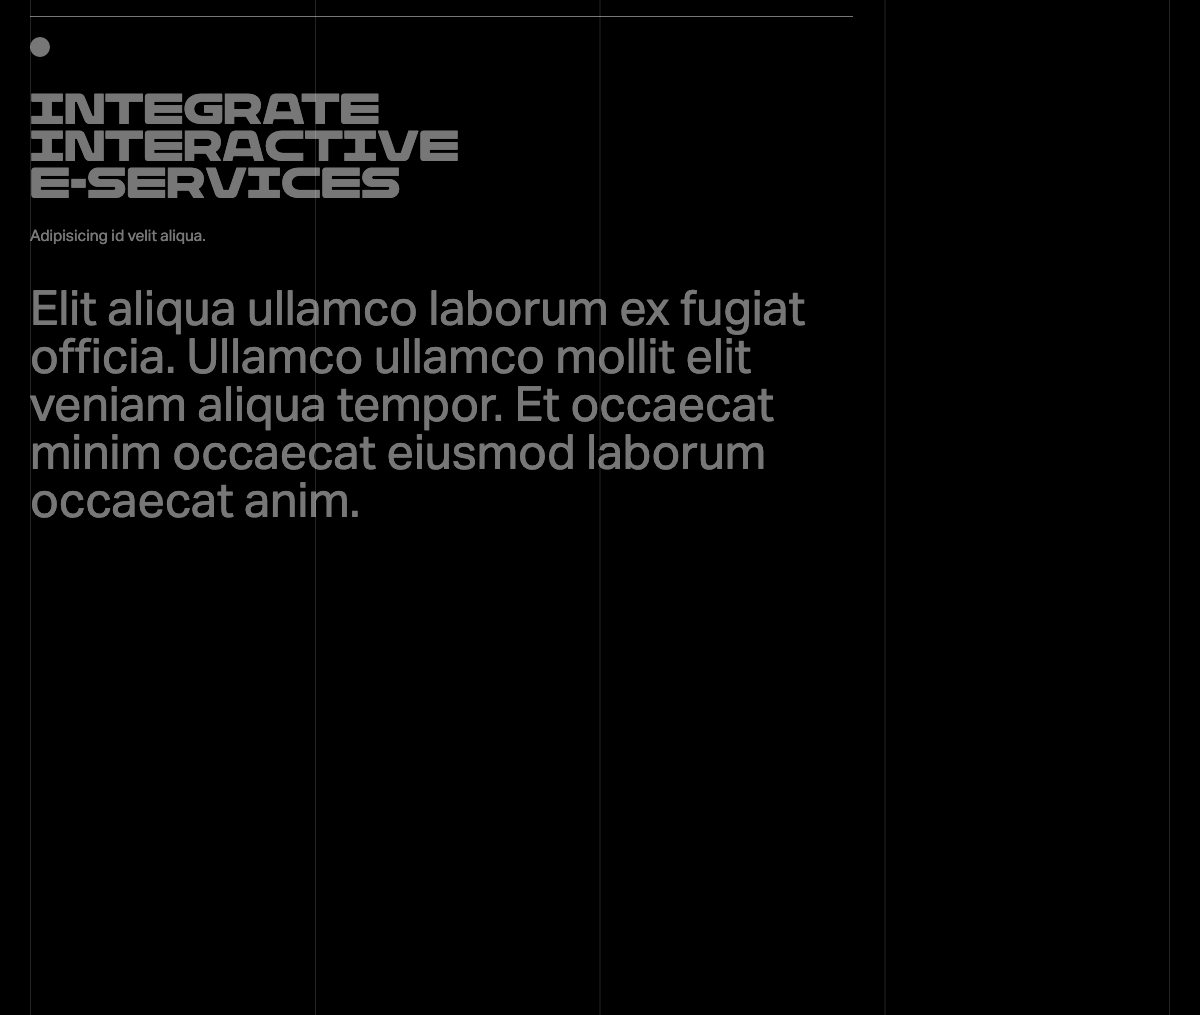
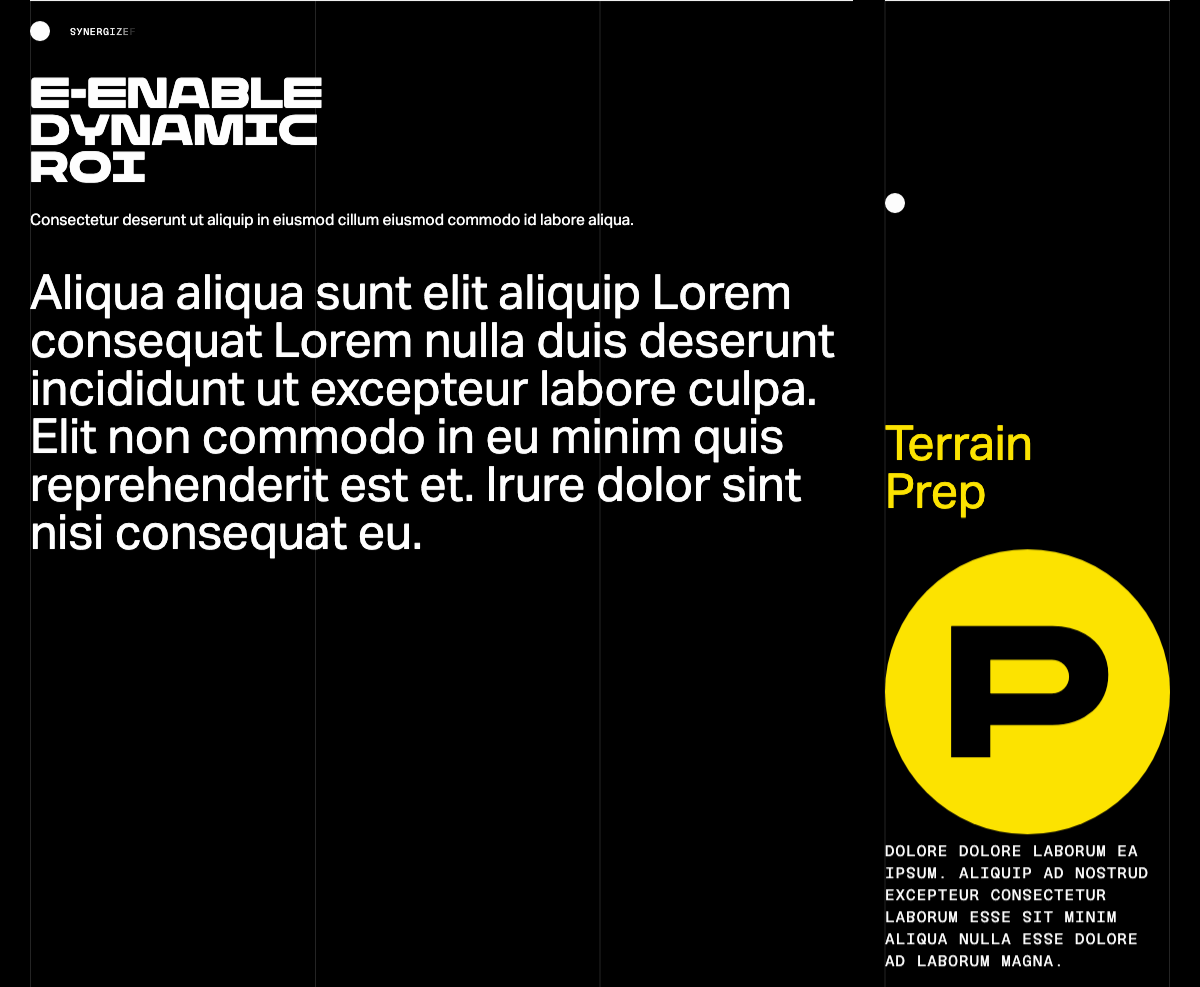
ability to use image for two column title

diff --git a/.slicemachine/assets/slices/TwoColumnSlice/index.stories.js b/.slicemachine/assets/slices/TwoColumnSlice/index.stories.js
@@ -18,7 +18,7 @@ export const _DefaultSlice = () => ({
   },
   data() {
     return {
-      mock: {"variation":"default-slice","name":"Default slice","slice_type":"two_column_slice","items":[],"primary":{"SectionNumber":"enhance plug-and-play action-items","SectionTitle":"aggregate cross-media e-services","title":[{"type":"heading1","text":"Integrate interactive e-services","spans":[]}],"description":[{"type":"paragraph","text":"Adipisicing id velit aliqua.","spans":[]}],"Content":[{"type":"paragraph","text":"Elit aliqua ullamco laborum ex fugiat officia. Ullamco ullamco mollit elit veniam aliqua tempor. Et occaecat minim occaecat eiusmod laborum occaecat anim.","spans":[]}],"SidebarSectionNumber":"architect holistic convergence","SidebarSectionTitle":"deploy 24/365 paradigms","SidebarStatus":"terrain-prep","SidebarFooterText":[{"type":"paragraph","text":"Id sit commodo elit sunt magna adipisicing est aliqua incididunt non sunt proident do qui. Nisi minim non id amet sunt ea non magna anim amet et irure.","spans":[]}]},"id":"_DefaultSlice"}
+      mock: {"variation":"default-slice","name":"Default slice","slice_type":"two_column_slice","items":[],"primary":{"SectionNumber":"synergize frictionless architectures","SectionTitle":"morph leading-edge infomediaries","title":[{"type":"heading1","text":"E-enable dynamic ROI","spans":[]}],"TitleImage":{"dimensions":{"width":900,"height":500},"alt":"Placeholder image","copyright":null,"url":"https://images.unsplash.com/photo-1587905069134-008460d7a636?w=900&h=500&fit=crop"},"description":[{"type":"paragraph","text":"Consectetur deserunt ut aliquip in eiusmod cillum eiusmod commodo id labore aliqua.","spans":[]}],"Content":[{"type":"paragraph","text":"Aliqua aliqua sunt elit aliquip Lorem consequat Lorem nulla duis deserunt incididunt ut excepteur labore culpa. Elit non commodo in eu minim quis reprehenderit est et. Irure dolor sint nisi consequat eu.","spans":[]}],"SidebarSectionNumber":"enable cross-platform models","SidebarSectionTitle":"recontextualize B2B functionalities","SidebarStatus":"terrain-prep","SidebarFooterText":[{"type":"paragraph","text":"Dolore dolore laborum ea ipsum. Aliquip ad nostrud excepteur consectetur laborum esse sit minim aliqua nulla esse dolore ad laborum magna.","spans":[]}]},"id":"_DefaultSlice"}
     }
   },
   template: '<SliceZone :slices="[mock]" :resolver="resolve" />'

diff --git a/components/Footer/Social.vue b/components/Footer/Social.vue
@@ -6,14 +6,16 @@
         :html-serializer="htmlSerializer"
       />
     </div>
-    <a
-      v-for="(item, index) in globals.data.SocialLinks"
-      :key="`headerSocialLink${index}`"
-      :href="item.Link.url"
-      target="_blank"
-    >
-      <prismic-image :field="item.Icon" />
-    </a>
+    <div class="footer-icons">
+      <a
+        v-for="(item, index) in globals.data.SocialLinks"
+        :key="`headerSocialLink${index}`"
+        :href="item.Link.url"
+        target="_blank"
+      >
+        <prismic-image :field="item.Icon" />
+      </a>
+    </div>
   </div>
 </template>
 <script>
@@ -50,8 +52,18 @@ export default {
   div {
     margin-bottom: 5px;
   }
+  .footer-icons {
+    display: flex;
+    align-items: center;
+  }
   a {
     padding-right: 4px;
+    display: block;
+    width: 2.3rem;
+    margin-right: 0.2rem;
+    img {
+      width: 100%;
+    }
   }
 }
 </style>

diff --git a/slices/TwoColumnSlice/index.vue b/slices/TwoColumnSlice/index.vue
@@ -16,8 +16,14 @@
       :should-show="waypointActive"
     >
       <prismic-rich-text
+        v-if="!slice.primary.TitleImage"
         class="two-column-title"
         :field="slice.primary.title"
+      />
+      <prismic-image
+        v-if="slice.primary.TitleImage"
+        class="two-column-title"
+        :field="slice.primary.TitleImage"
       />
       <prismic-rich-text
         class="two-column-description"
@@ -67,6 +73,12 @@ export default {
     @include media-breakpoint-up(sm) {
       font-size: 3.9vw;
     }
+  }
+}
+img.two-column-title {
+  width: 90%;
+  @include media-breakpoint-up(sm) {
+    width: 50%;
   }
 }
 .two-column-description {

diff --git a/layouts/default.vue b/layouts/default.vue
@@ -52,7 +52,7 @@ export default {
     },
     handleCtrlD() {
       if (this.globals.data.mediaKit) {
-        console.log(this.globals.data.mediaKit.url)
+        window.location = this.globals.data.mediaKit.url
       }
     },
   },
